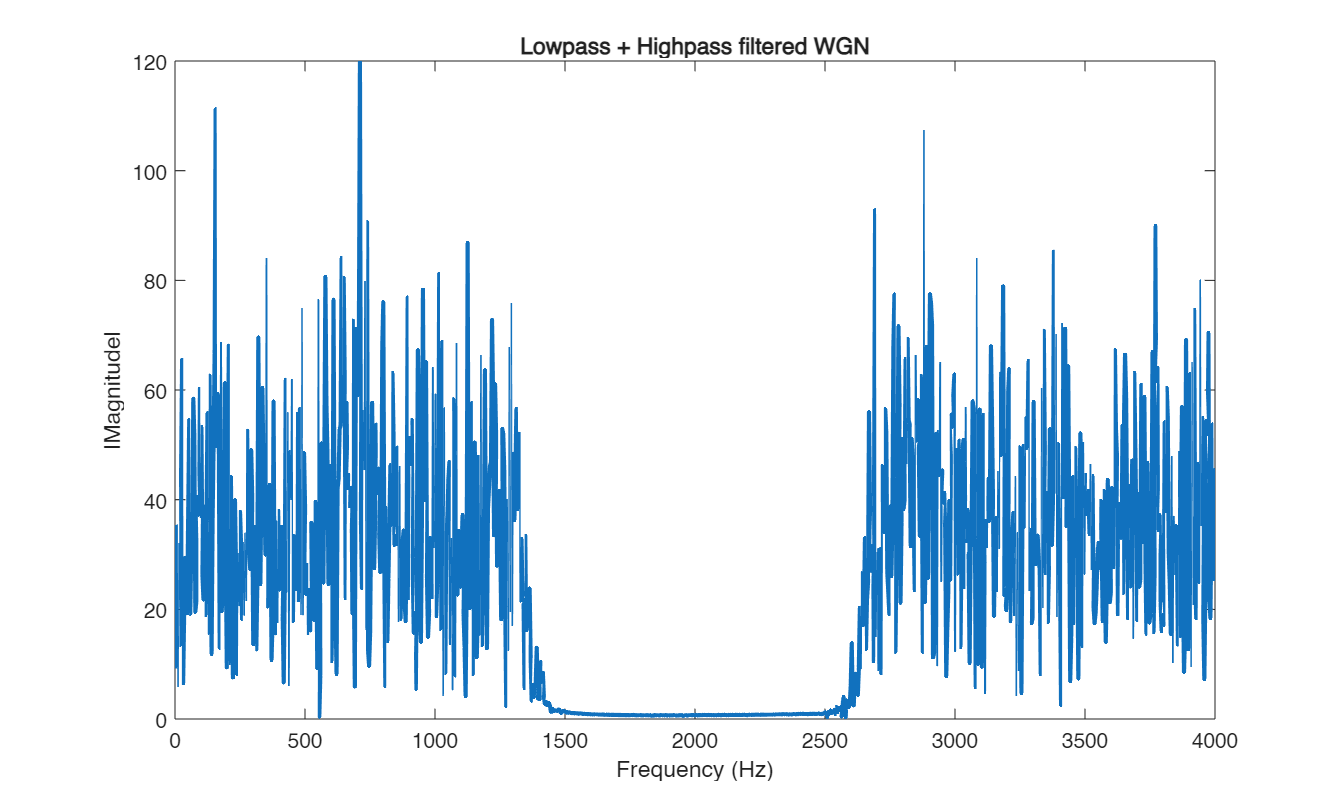
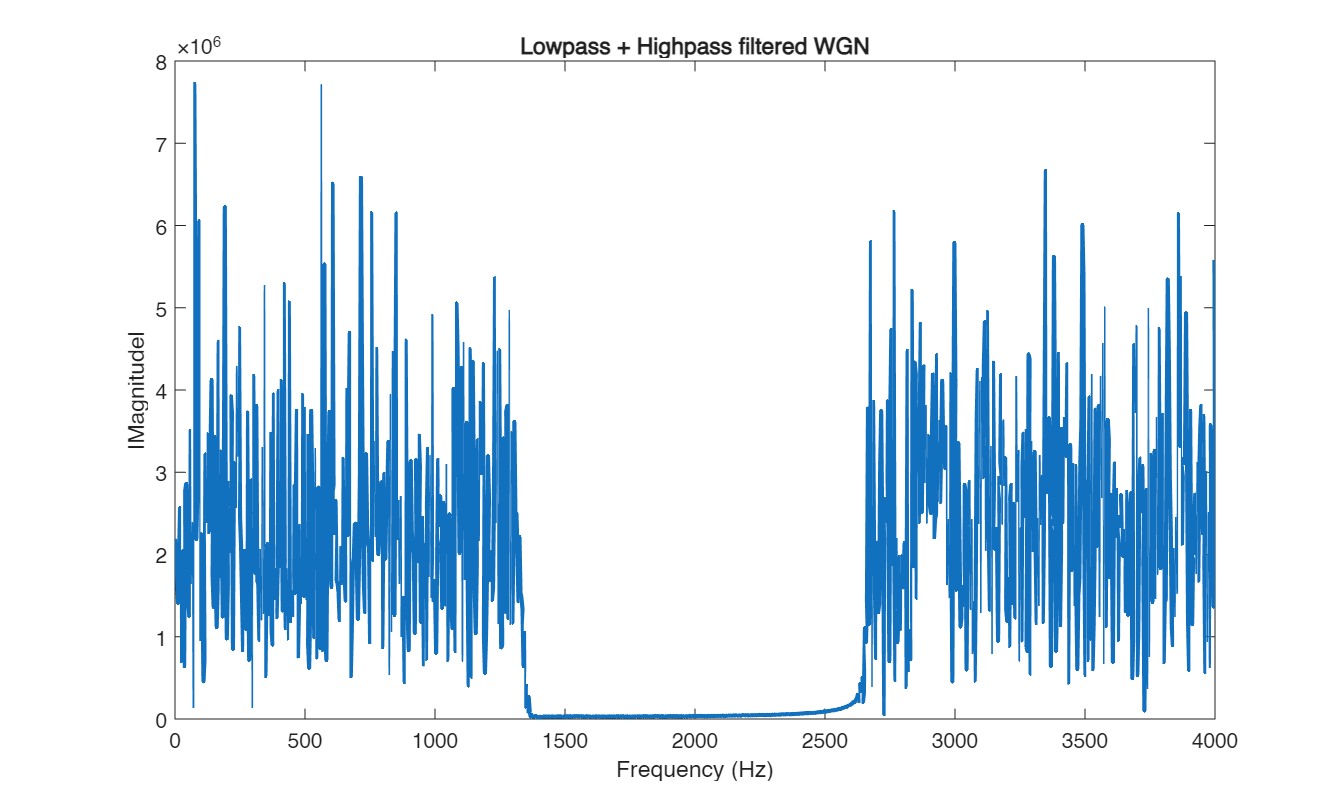
working C IIR (i think?)

diff --git a/MiniProject/Main.c b/MiniProject/Main.c
@@ -12,7 +12,7 @@ Bool dips[8];
 float buffer[32768];
 //float obuffer[2000];
 ulong_t ind = 0;
-ulong_t cbuf = 0;
+int16_t cbuf = 0;
 float x[N_IIR_BP];
 float yb[N_IIR_BP];
 float yl[N_IIR_LP];
@@ -29,7 +29,7 @@ void main(void){
 
     DIP_getAll(&alldip);
     for(i = 0;i<8;i++){
-        dips[i]= (alldip & ( 1 << i )) >> i;
+        dips[i]= 1;
     }
 
     initAll();
@@ -70,14 +70,14 @@ void audioHWI(void){
 
             //sum filter results
             //printf("%d\n\n",result);
-            write_audio_sample(result);
+            write_audio_sample((int16_t)result);
             //obuffer[ind>>4] = result;
             //printf("%d\n",ind<<4);
             //write_audio_sample(s16);
         }
         else{
-            buffer[ind] = (float)s16;
             write_audio_sample(s16);
+            buffer[ind] = (float)s16;
             //output input?
             //run IIR with zeros?
         }
@@ -104,18 +104,19 @@ void LED(){
 
 
 //TODO unroll
-float IIR(float b1[], float y[],float b2[]){
+float IIR(float a[], float y[],float b[]){
     int i;
-    int j;
-    float out = 0.0;
-
-    #pragma UNROLL(N_IIR_BP);
-    for(i = 0; i<N_IIR_BP; i++){
-        j = (cbuf + i) & (N_IIR_BP-1);
-        out += x[i]*b1[i];
-        out += y[i]*b2[i];
+    int16_t j;
+    float out;
+    out = 0.0;
+    out += x[cbuf]*b[0];
+    #pragma UNROLL(N_IIR_BP-1);
+    for(i = 1; i<N_IIR_BP; i++){
+        j = (cbuf - i) & (N_IIR_BP-1);
+        out += x[j]*b[i];
+        out -= y[j]*a[i];
     }
-    y[(cbuf+1) & (N_IIR_BP-1)] = out;
+    y[cbuf] = out;
     return out;
 }
 

diff --git a/assign.m b/assign.m
@@ -1,9 +1,11 @@
 %% 
 fs = 8e3;
 % genenerate some wgn
-x = wgn(1, 1e6, 0);
+x = single(wgn(1, 1e6, 2^32, 1, 11,'linear'));
 
 %% Filter design
+analysis = true;
+
 lowpass_f1 = fs/6;
 
 bandpass_f1 = fs/6;
@@ -36,11 +38,12 @@ hpfilt = designfilt("highpassiir", ...
     SampleRate=fs);
 
 % analyze the filters
+if analysis
 filterAnalyzer(lpfilt, bpfilt, hpfilt, ...
             FilterNames=["Lowpass", "Bandpass", "Highpass"], ...
             Analysis="magnitude", ...
             SampleRates=[fs, fs, fs]);
-
+end
 % get transfer functions
 [lp_b, lp_a] = tf(lpfilt);
 [bp_b, bp_a] = tf(bpfilt);
@@ -51,10 +54,11 @@ bp_a = [bp_a 0];
 bp_b = [bp_b 0];
 
 % analyze the transfer functions
+if analysis
 filterAnalyzer(lp_b, lp_a, bp_b, bp_a, hp_b, hp_a, ...
             FilterNames=["Lowpass_tf", "Bandpass_tf", "Highpass_tf"], ...
             SampleRates=[fs, fs, fs]);
-
+end
 % quantize the transfer functions
 lp_b_q = single(lp_b);
 lp_a_q = single(lp_a);
@@ -64,10 +68,11 @@ hp_b_q = single(hp_b);
 hp_a_q = single(hp_a);
 
 % analyze quantization
+if analysis
 filterAnalyzer(lp_b_q, lp_a_q, bp_b_q, bp_a_q, hp_b_q, hp_a_q, ...
             FilterNames=["Lowpass_tf_q", "Bandpass_tf_q", "Highpass_tf_q"], ...
             SampleRates=[fs, fs, fs]);
-
+end
 %% Filter the signal
 % lowpass
 y_lp = filter(lp_b_q, lp_a_q, x);
